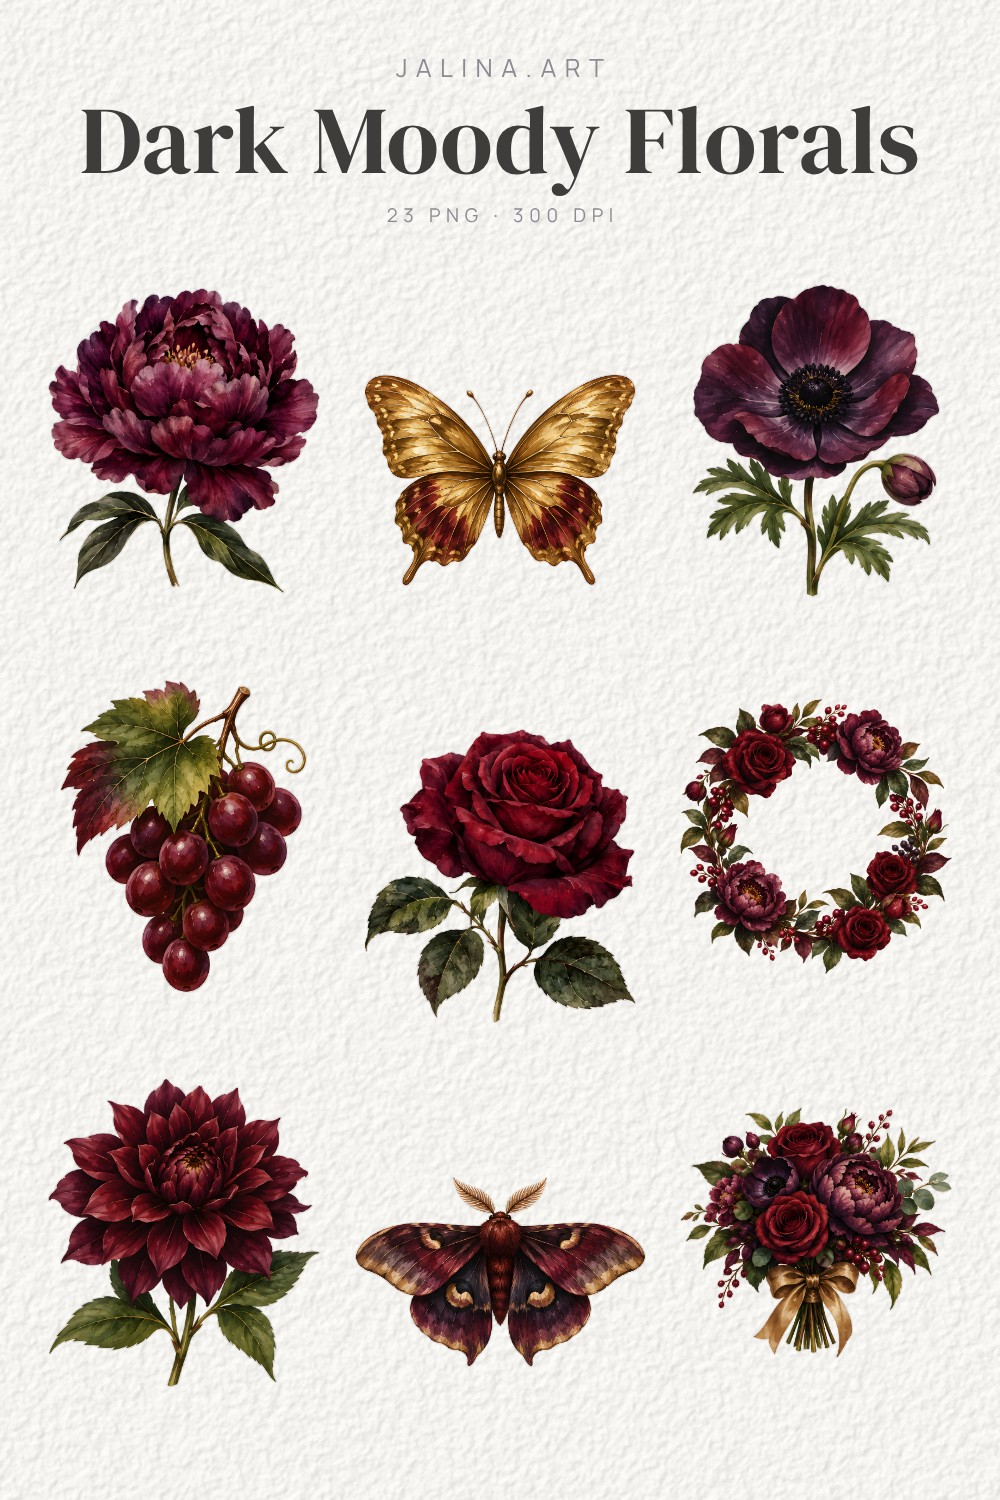
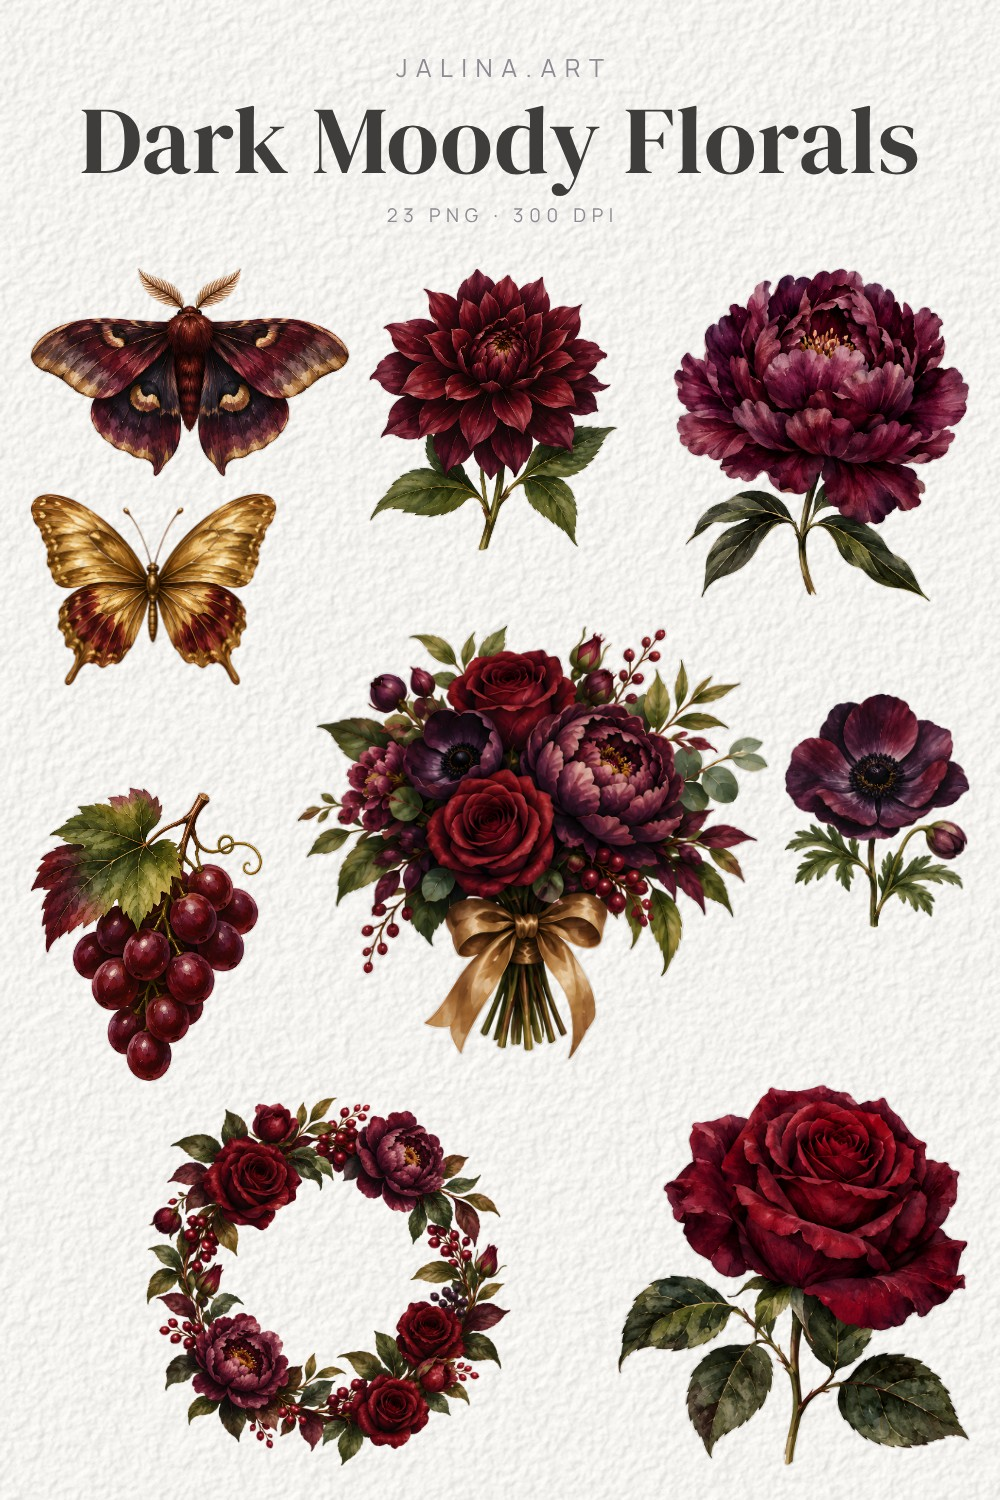
Pin template S: organic curated composition with a hero element
Hero ~1.85x (bouquet/cake/house/wreath...), 2-3 medium, small accents; staggered
max-clearance placement + relaxation, whitespace measured on real alpha,
best of 16 seeds; no overlaps, nothing cropped, header kept clear.

Claude-Session: https://claude.ai/code/session_011DEezwDVCdCrHxyaviwVHj

diff --git a/affiliate/pins/v2/gen.py b/affiliate/pins/v2/gen.py
@@ -267,62 +267,190 @@ def noun(fname):
     return re.sub(r'(es|s)$', '', w[-1]) if w else fname
 
 
+HERO_RX = [r'bouquet|arrangement', r'(?<!cup)cake', r'house|village', r'wreath', r'christmas-tree|-tree\b', r'truck|sleigh']
+LARGE_RX = re.compile(r'cake|bouquet|arrangement|house|wreath|tree|truck|stack|volcano|vase|hugging|peony|rose\b', re.I)
+SMALL_RX = re.compile(r'mitten|candy|star|bud|leaf|sprig|hat\b|heart|horn|bone|cupcake|snowflake|berry|butterfly|moth|'
+                      r'olive|bauble|ornament|balloon|grapes|anemone|dahlia|calla', re.I)
+
+
 def pick_showcase(els, n):
-    """Most attractive elements: no lettering/garlands/tiny bits, dense (solid objects) first,
-    one per subject type while possible, then spread back into the set's (alphabetical) order."""
+    """Hero (most iconic: bouquet / cake / house / wreath / tree...) + the most recognisable rest:
+    no lettering/garlands/tiny bits, dense (solid) objects first, one per subject type while possible."""
     ok = [e for e in els if not SKIP.search(e[0]) and not TINY.search(e[0]) and 0.5 <= e[3] <= 1.8]
     if len(ok) < n:
         ok += [e for e in els if e not in ok and not SKIP.search(e[0]) and 0.4 <= e[3] <= 2.4]
     ranked = sorted(ok, key=lambda e: -ink(e[1]))
-    out, seen = [], set()
+    hero = next((e for rx in HERO_RX for e in ranked if re.search(rx, e[0], re.I)), ranked[0])
+    out, seen = [hero], {noun(hero[0])}
     for e in ranked:
-        if noun(e[0]) not in seen:
-            out.append(e); seen.add(noun(e[0]))
         if len(out) == n:
             break
+        if e not in out and noun(e[0]) not in seen:
+            out.append(e); seen.add(noun(e[0]))
     for e in ranked:
         if len(out) == n:
             break
         if e not in out:
             out.append(e)
-    # interleave so neighbours differ (alternate from both ends of the density ranking)
-    out.sort(key=lambda e: -ink(e[1]))
-    mixed = []
-    while out:
-        mixed.append(out.pop(0))
-        if out:
-            mixed.append(out.pop(len(out) // 2))
-    return mixed
+    return out  # out[0] = hero
+
+
+def sheet_sizes(els):
+    """Relative 'diameter' per element: hero 1.85, 2-3 naturally large ones 1.3, small things 0.86,
+    rest 1.0; sparse paintings get a little more room. Largest/smallest capped at 2.3."""
+    fills = [ink(e[1]) for e in els]
+    tier = [1.0] * len(els)
+    tier[0] = 1.85
+    big = [i for i in range(1, len(els)) if LARGE_RX.search(els[i][0])]
+    big = (big + sorted((i for i in range(1, len(els)) if i not in big), key=lambda i: -fills[i]))[:3 if len(els) >= 9 else 2]
+    for i in big:
+        tier[i] = 1.3
+    for i in range(1, len(els)):
+        if i not in big and SMALL_RX.search(els[i][0]):
+            tier[i] = 0.86
+    d = [t / fills[i] ** 0.2 for i, t in enumerate(tier)]
+    lo = max(d) / 2.3
+    return [max(x, lo) for x in d]
+
+
+def organic_layout(ars, ds, bw, bh, gap, masks=None, seeds=16):
+    """Curated-sheet placement inside a bw x bh box: hero (index 0) centred a little above the middle,
+    the others (largest first) at the sampled spot with the most clearance, then relaxed. Bounding boxes
+    never overlap (>= gap apart) and stay inside the box. The global size is binary-searched per seed;
+    the winner has the biggest elements, then the most even whitespace (smallest large holes)."""
+    import numpy as np
+    n = len(ars)
+    order = [0] + sorted(range(1, n), key=lambda i: -ds[i])
+    gx, gy = np.meshgrid(np.arange(0, bw, 22) + 11, np.arange(0, bh, 22) + 11)
+    gx, gy = gx.ravel(), gy.ravel()
+    # painted cells of each element (16x16 alpha grid) -> whitespace is measured to real paint, not bboxes
+    mk = [np.argwhere(m) for m in masks] if masks is not None else [np.argwhere(np.ones((16, 16), bool))] * n
+
+    def mhole(cx, cy, W_, H_):
+        px = np.concatenate([cx[i] - W_[i] / 2 + (mk[i][:, 1] + .5) / 16 * W_[i] for i in range(n)])
+        py = np.concatenate([cy[i] - H_[i] / 2 + (mk[i][:, 0] + .5) / 16 * H_[i] for i in range(n)])
+        d = np.sqrt((gx[:, None] - px[None]) ** 2 + (gy[:, None] - py[None]) ** 2).min(1)
+        return np.percentile(d, 97)
+
+    def dims(i, s):
+        return ds[i] * s * math.sqrt(ars[i]), ds[i] * s / math.sqrt(ars[i])
+
+    def place(s, rng):
+        W_ = np.array([dims(i, s)[0] for i in range(n)]); H_ = np.array([dims(i, s)[1] for i in range(n)])
+        if W_.max() > bw or H_.max() > bh:
+            return None
+        cx = np.full(n, np.nan); cy = np.full(n, np.nan)
+        h0 = order[0]
+        cx[h0] = bw / 2 + rng.uniform(-0.06, 0.06) * bw
+        cy[h0] = bh * rng.uniform(0.36, 0.5)
+        cx[h0] = min(max(cx[h0], W_[h0] / 2), bw - W_[h0] / 2); cy[h0] = min(max(cy[h0], H_[h0] / 2), bh - H_[h0] / 2)
+
+        def clear(i, x, y, done):
+            # gap between rect i at (x,y) and each placed rect (negative = overlap)
+            j = np.array(done)
+            sx = np.abs(x[:, None] - cx[j][None]) - (W_[i] + W_[j][None]) / 2
+            sy = np.abs(y[:, None] - cy[j][None]) - (H_[i] + H_[j][None]) / 2
+            return np.maximum(sx, sy).min(1)
+
+        done = [h0]
+        for i in order[1:]:
+            x = rng.uniform(W_[i] / 2, bw - W_[i] / 2, 1500); y = rng.uniform(H_[i] / 2, bh - H_[i] / 2, 1500)
+            c = clear(i, x, y, done)
+            k = int(np.argmax(c))
+            if c[k] < gap:
+                return None
+            cx[i], cy[i] = x[k], y[k]; done.append(i)
+        for _ in range(25):  # relax: nudge each non-hero element toward more clearance
+            for i in order[1:]:
+                oth = [j for j in done if j != i]
+                x = np.clip(cx[i] + rng.normal(0, 18, 30), W_[i] / 2, bw - W_[i] / 2)
+                y = np.clip(cy[i] + rng.normal(0, 18, 30), H_[i] / 2, bh - H_[i] / 2)
+                x = np.append(x, cx[i]); y = np.append(y, cy[i])
+                k = int(np.argmax(clear(i, x, y, oth)))
+                cx[i], cy[i] = x[k], y[k]
+        return cx, cy, W_, H_
+
+    best = None
+    for seed in range(seeds):
+        rng = np.random.default_rng(seed)
+        lo, hi, got = 50, 900, None
+        for _ in range(11):
+            s = (lo + hi) / 2
+            r = None
+            for _ in range(6):
+                r = place(s, rng)
+                if r: break
+            if r: lo, got = s, r
+            else: hi = s
+        if not got:
+            continue
+        cx, cy, W_, H_ = got
+        # whitespace evenness: distance from each free grid point to the nearest element
+        hole = mhole(cx, cy, W_, H_)
+        # vertical balance: painted mass centre near the box centre
+        cm = (cy * W_ * H_).sum() / (W_ * H_).sum()
+        score = lo * 1.0 - 1.5 * hole - 0.25 * abs(cm - bh / 2)
+        if best is None or score > best[0]:
+            best = (score, (cx.copy(), cy.copy(), W_.copy(), H_.copy()))
+    cx, cy, W_, H_ = best[1]
+    def holes():
+        return None, mhole(cx, cy, W_, H_)
+
+    def ok_at(i, x, y):
+        j = np.array([k for k in range(n) if k != i])
+        return np.maximum(np.abs(x - cx[j]) - (W_[i] + W_[j]) / 2, np.abs(y - cy[j]) - (H_[i] + H_[j]) / 2).min() >= gap
+
+    # re-seat each non-hero element (smallest first) where it best evens out the whitespace
+    rng = np.random.default_rng(99)
+    for _ in range(2):
+        for i in sorted(range(1, n), key=lambda i: W_[i] * H_[i]):
+            best_h, best_xy = holes()[1], (cx[i], cy[i])
+            ox, oy = cx[i], cy[i]
+            for x, y in zip(rng.uniform(W_[i] / 2, bw - W_[i] / 2, 70), rng.uniform(H_[i] / 2, bh - H_[i] / 2, 70)):
+                if not ok_at(i, x, y):
+                    continue
+                cx[i], cy[i] = x, y
+                h = holes()[1]
+                if h < best_h - 1:
+                    best_h, best_xy = h, (x, y)
+                cx[i], cy[i] = ox, oy
+            cx[i], cy[i] = best_xy
+    # grow: let each element take up to +30% where its neighbourhood has room (fills holes organically)
+    base = W_.copy()
+    for _ in range(40):
+        changed = False
+        for i in range(n):
+            f = 1.03
+            w, h = W_[i] * f, H_[i] * f
+            if w > base[i] * 1.3 or w > bw or h > bh:
+                continue
+            x = min(max(cx[i], w / 2), bw - w / 2); y = min(max(cy[i], h / 2), bh - h / 2)
+            j = np.array([k for k in range(n) if k != i])
+            g = np.maximum(np.abs(x - cx[j]) - (w + W_[j]) / 2, np.abs(y - cy[j]) - (h + H_[j]) / 2).min()
+            if g >= gap:
+                cx[i], cy[i], W_[i], H_[i] = x, y, w, h; changed = True
+        if not changed:
+            break
+    return [(cx[i] - W_[i] / 2, cy[i] - H_[i] / 2, W_[i], H_[i]) for i in range(n)]
 
 
 def tmpl_s(sid, n, title=None, size=(1000, 1500)):
     w_, h_ = size
     s = SHOP[sid]
-    cols = 3
     n = n or (12 if h_ > 1600 else 9)
     els = pick_showcase(set_elements(sid), n)
-    n = len(els)
-    rows = math.ceil(n / cols)
     title = title or s['name']
     sub = f'{s["count"]} PNG · 300 DPI'
-    top, bottom, side = 262, 50, 26
-    cw, ch = (w_ - 2 * side) / cols, (h_ - top - bottom) / rows
-    stagger = ch * 0.10  # middle column sits a little lower, like a hand-laid sheet
-    top_adj = top - stagger / 2
+    top, bottom, side = 268, 34, 30
+    bw, bh = w_ - 2 * side, h_ - top - bottom
+    from PIL import Image
+    import numpy as np
+    masks = [np.asarray(Image.open(e[1]).getchannel('A').resize((16, 16))) > 60 for e in els]
+    pos = organic_layout([e[3] for e in els], sheet_sizes(els), bw, bh, 14, masks)
     body = (f'<div class=studio>JALINA.ART</div><div class=ttl data-fit=96>{esc(title)}</div>'
             f'<div class=sub>{esc(sub)}</div>')
-    for k, e in enumerate(els):
-        r, c = divmod(k, cols)
-        in_row = min(cols, n - r * cols)
-        cx0 = side + (cols - in_row) * cw / 2  # centre a short last row
-        fill = ink(e[1])
-        # visual weight: sparse elements (sprigs, wreaths) may use more of the cell than solid ones
-        frac = 0.86 if fill > 0.55 else 0.92
-        bw_, bh_ = cw * frac, ch * frac * 0.92
-        w, h = (bw_, bw_ / e[3]) if bw_ / e[3] <= bh_ else (bh_ * e[3], bh_)
-        x = cx0 + c * cw + (cw - w) / 2
-        y = top_adj + r * ch + (ch - h) / 2 + (stagger if c == 1 and in_row == cols else 0)
-        body += (f'<div class=abs style="left:{x:.0f}px;top:{y:.0f}px;width:{w:.0f}px;height:{h:.0f}px">'
+    for e, (x, y, w, h) in zip(els, pos):
+        body += (f'<div class=abs style="left:{side+x:.0f}px;top:{top+y:.0f}px;width:{w:.0f}px;height:{h:.0f}px">'
                  f'<img src="file://{e[2]}"></div>')
     css = f'''@font-face{{font-family:S;src:url(file://{FONTS}/DMSerifDisplay-400-latin.woff2)}}
 @font-face{{font-family:M;src:url(file://{FONTS}/Manrope-400-latin.woff2)}}

diff --git a/affiliate/pins/v2/README.md b/affiliate/pins/v2/README.md
@@ -16,10 +16,14 @@ the product. Layouts keep ~130 px free at the bottom for it.
 | **D** in use | cream background, headline "`<count> <set name> PNG`", one real mockup of the set (`jalina-factory/ready/<set>/mockup-N.jpg`, shown whole in a rounded card), strip of 3 set elements under it, brand plaque. No price, no dark blocks | own sets → `/shop/<slug>/` or Payhip |
 
 **S** product sheet (Nov 12 2026, after Alina's feedback and her favourite reference "Coffee" by a watercolor studio):
-few BIG elements in a loose 3-column grid: 9 by default (3x3), 12 on 1000x2000 (`-tall`), `--n 6..12`. The middle column
-sits slightly lower, like a hand-laid sheet. Picks the most recognisable elements of the set: no lettering, no garlands,
-no tiny scatters (confetti, petals, footprints, clusters); solid, dense objects come first, with one per subject type
-(gift, tree/plant, ornament, cake, drink, vehicle, house...) so the sheet stays varied.
+few BIG elements (9 by default, 12 on 1000x2000 `-tall`, `--n 6..12`) in an organic curated composition rather than a grid.
+- **Hero:** 1 element, about 1.85x the base size, placed centre or upper-middle. It is the most iconic one: bouquet > cake > house > wreath > tree > truck.
+- **Mediums:** 2–3 naturally large items at 1.3x. Small things (mittens, hats, ornaments, butterflies) get 0.86x. Largest to smallest is capped at 2.3x.
+- **Placement:** each element goes to the sampled spot with the most clearance, then the layout is relaxed. Elements are re-seated to even out whitespace, measured to the real paint (alpha), not bounding boxes. Finally they grow by up to 30% where there is room.
+- **Seeds:** 16 seeds are tried; the winner has the biggest elements, the smallest empty holes and a balanced mass.
+- **Guarantees:** bounding boxes never overlap, and nothing is cropped or touches the header.
+
+The picks are the most recognisable elements of the set. No lettering, no garlands, no tiny scatters (confetti, petals, footprints, clusters). Solid, dense objects come first, with one per subject type so the sheet stays varied.
 Background: procedural cold-press cotton watercolor paper, `assets/cotton-paper.jpg`, made by `paper.py`. It uses
 multi-octave pebble height map, Lambert light from the upper left, cool #F4F2EE, even light and no downloads. Elements use `multiply` so the paper
 shows through like print. Header: studio line `JALINA.ART` (Manrope spaced caps, muted), set name big in DM Serif
